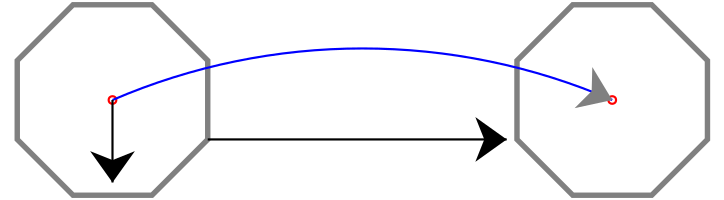
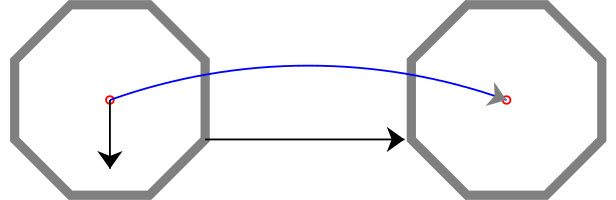
MINOR Revert to original sizes given by @srush

Changed region(s): [[0.0, 0.0, 0.987, 1.0]]

diff --git a/examples/arrows.py b/examples/arrows.py
@@ -17,7 +17,7 @@ c
 
 arrow_v(unit_y).render_pdf("test.pdf", 200)
 
-octagon = polygon(8, 1).rotate_by(1 / 16).line_color(grey).line_width(0.25).show_origin()
+octagon = polygon(8, 1.5).rotate_by(1 / 16).line_color(grey).line_width(0.5).show_origin()
 dias = octagon.named("first") | hstrut(3) | octagon.named("second")
 
 ex1 = dias.connect(
@@ -43,7 +43,7 @@ ex12 = ex1.connect_perim(
     unit_x.rotate_by(9 / 16),
     ArrowOpts(head_pad=0.1),
 )
-ex3 = arrow_v(unit_y.scale(0.8))
+ex3 = arrow_v(unit_y)
 d = ex12 + ex3
 
 d
